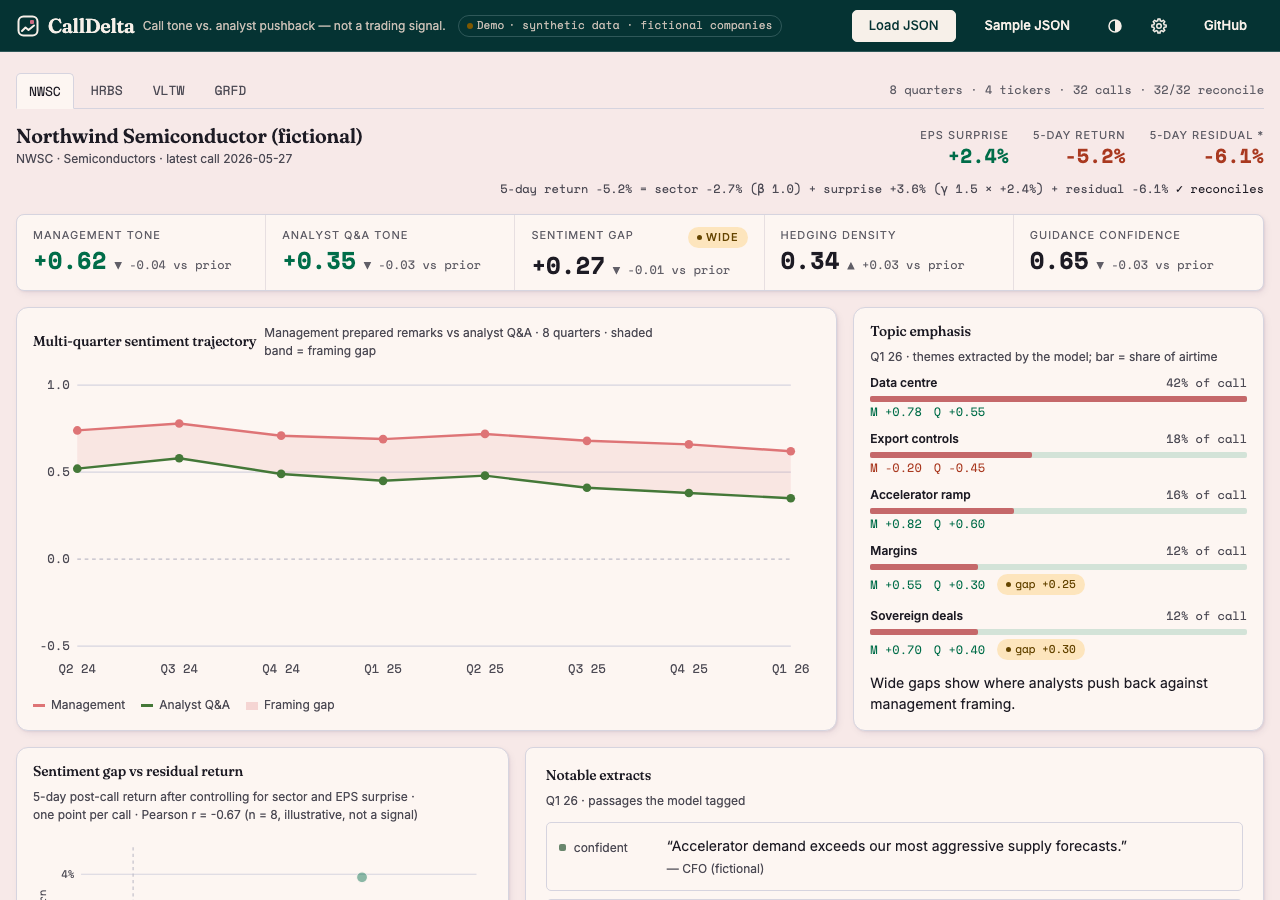
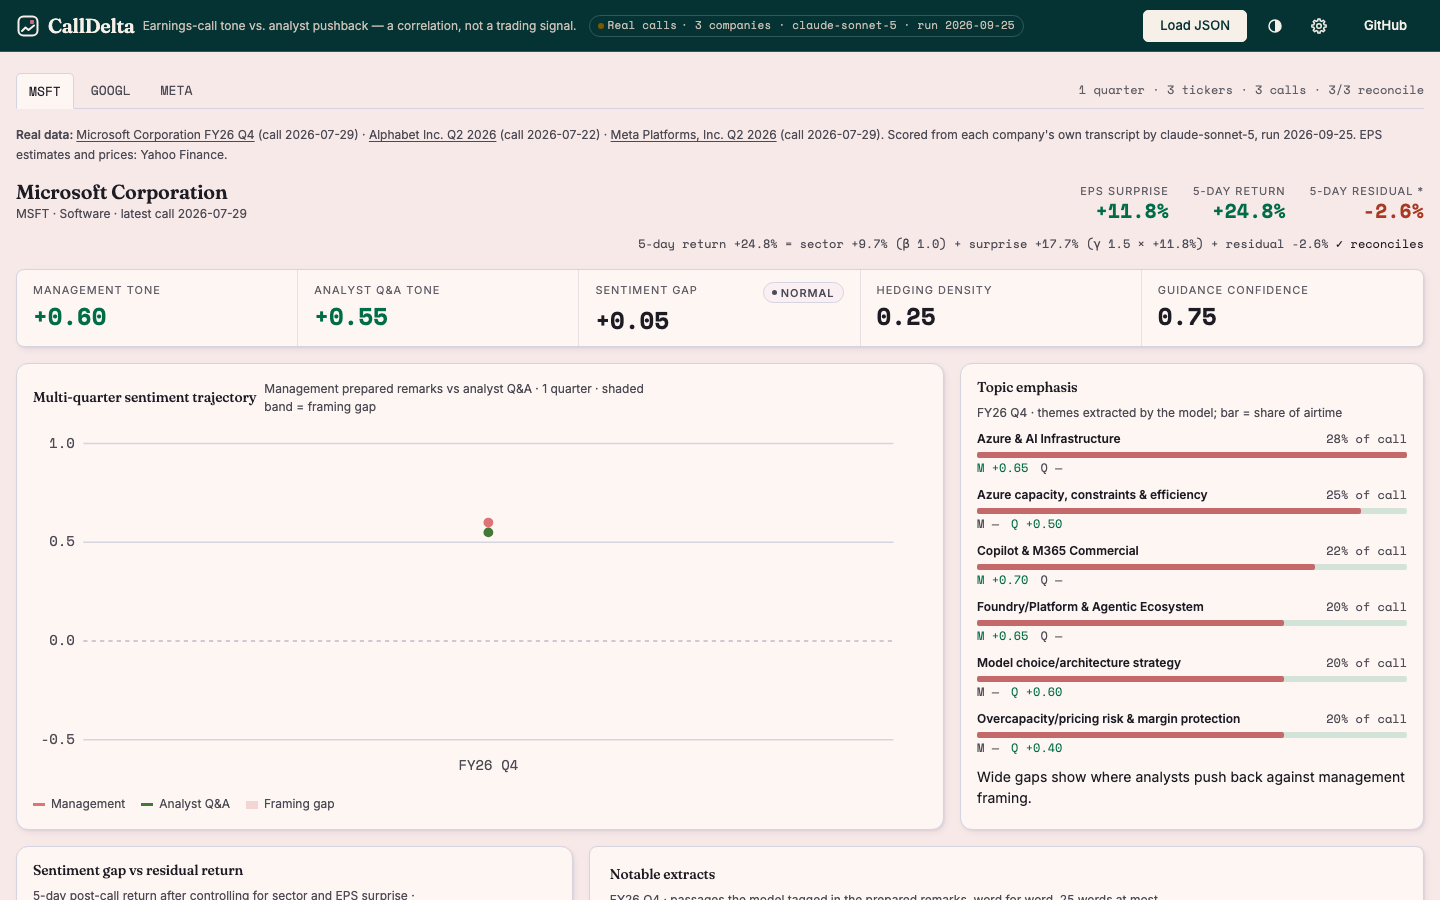
Show a dash for a topic one section did not discuss; single-quarter polish
A topic that only the prepared remarks (or only the Q&A) covered used to be
exported with a 0.00 tone for the other side, which the page drew as a
neutral score and a "gap" tag. The export now flags the missing side
(mgmt_missing / qa_missing) and the page shows "M —" or "Q —" with no gap tag.

With one quarter per company the strip no longer shows "vs prior" deltas and
the counts say "1 quarter". Calendar-quarter labels read "Q2 2026". The README
screenshot now shows the real data.

diff --git a/docs/app.js b/docs/app.js
@@ -145,11 +145,11 @@ function renderPage() {
   const c = data[S.ticker], qs = c.quarters, cur = qs[qs.length - 1], prev = qs[qs.length - 2] || cur;
   const calls = tickers.reduce((a, t) => a + data[t].quarters.length, 0);
   $('#pill-short').textContent = S.custom ? 'Your file' : 'Real calls';
-  $('#pill-long').textContent = S.custom ? ' · loaded in this tab' : ` · ${META.calls.length} calls · ${META.model} · run ${META.run_date}`;
+  $('#pill-long').textContent = S.custom ? ' · loaded in this tab' : ` · ${META.calls.length} companies · ${META.model} · run ${META.run_date}`;
   $('#reset').hidden = !S.custom;
   // the address always names the company on screen, so a reload or a shared link opens the same one
   if (fromHash() !== S.ticker) history.replaceState(null, '', '#' + encodeURIComponent(S.ticker));
-  main.append(h('div', { class: 'ticker-tabs', role: 'tablist', 'aria-label': 'Companies' }, tickers.map(t => h('button', { role: 'tab', id: 'tab-' + t, 'aria-controls': 'ticker-panel', 'aria-selected': t === S.ticker ? 'true' : 'false', onclick: () => { if (t === S.ticker) return; S.ticker = t; history.pushState(null, '', '#' + encodeURIComponent(t)); render(); } }, t)), h('span', { class: 'meta' }, `${qs.length} quarters · ${tickers.length} tickers · ${calls} calls · `, recSummary(data, tickers, calls))));
+  main.append(h('div', { class: 'ticker-tabs', role: 'tablist', 'aria-label': 'Companies' }, tickers.map(t => h('button', { role: 'tab', id: 'tab-' + t, 'aria-controls': 'ticker-panel', 'aria-selected': t === S.ticker ? 'true' : 'false', onclick: () => { if (t === S.ticker) return; S.ticker = t; history.pushState(null, '', '#' + encodeURIComponent(t)); render(); } }, t)), h('span', { class: 'meta' }, `${qs.length} ${qs.length === 1 ? 'quarter' : 'quarters'} · ${tickers.length} tickers · ${calls} calls · `, recSummary(data, tickers, calls))));
   if (!S.custom) main.append(provenance());
   const panel = h('div', { id: 'ticker-panel', role: 'tabpanel', 'aria-labelledby': 'tab-' + S.ticker }); main.append(panel);
   const gap = cur.mgmt - cur.qa, gapPrev = prev.mgmt - prev.qa, rec = reconcile(c, cur);
@@ -162,7 +162,7 @@ function renderPage() {
     typeof c.note === 'string' && c.note ? h('p', { class: 'company-note', role: 'note' }, c.note) : null));
   // colour may repeat what a sign already says, never stand alone for good or bad: the strip's
   // unsigned figures and these deltas carry no colour classes
-  const delta = v => qs.length < 2 ? h('small', {}, 'one quarter') : h('small', {}, `${v > 0 ? '▲' : v < 0 ? '▼' : '·'} ${tone(v)} vs prior`);
+  const delta = v => qs.length < 2 ? null : h('small', {}, `${v > 0 ? '▲' : v < 0 ? '▼' : '·'} ${tone(v)} vs prior`);   // one quarter: nothing to compare with
   panel.append(h('div', { class: 'strip', role: 'group', 'aria-label': 'Current quarter signals' },
     h('div', {}, h('div', { class: 'lbl' }, 'Management tone'), h('div', { class: 'val' }, h('b', { class: cls(cur.mgmt) }, tone(cur.mgmt)), delta(cur.mgmt - prev.mgmt))),
     h('div', {}, h('div', { class: 'lbl' }, 'Analyst Q&A tone'), h('div', { class: 'val' }, h('b', { class: cls(cur.qa) }, tone(cur.qa)), delta(cur.qa - prev.qa))),
@@ -171,8 +171,8 @@ function renderPage() {
     h('div', {}, h('div', { class: 'lbl' }, 'Guidance confidence'), h('div', { class: 'val' }, h('b', {}, cur.guidance.toFixed(2)), delta(cur.guidance - prev.guidance)))));
   const maxW = Math.max(0.001, ...c.topics.map(t => t.weight));
   panel.append(h('div', { class: 'panels' },
-    h('div', { class: 'chart' }, h('div', { class: 'ch-head' }, h('h2', {}, 'Multi-quarter sentiment trajectory'), h('p', {}, `Management prepared remarks vs analyst Q&A · ${qs.length} quarters · shaded band = framing gap`)), trajectory(qs), h('div', { class: 'legend' }, h('span', {}, h('i', { style: 'background:var(--viz-1)' }), 'Management'), h('span', {}, h('i', { style: 'background:var(--viz-2)' }), 'Analyst Q&A'), h('span', {}, h('i', { style: 'background:var(--viz-1);opacity:.25;height:8px' }), 'Framing gap'))),
-    h('div', { class: 'chart' }, h('div', { class: 'ch-head' }, h('h2', {}, 'Topic emphasis'), h('p', {}, `${cur.label} · themes extracted by the model; bar = share of airtime`)), h('div', { class: 'topics' }, c.topics.length ? c.topics.map(t => { const g = t.mgmt - t.qa; return h('div', { class: 'topic' }, h('div', { class: 'head' }, h('b', {}, t.name), h('span', { class: 'mono muted' }, `${(t.weight * 100).toFixed(0)}% of call`)), h('div', { class: 'bar' }, h('i', { style: `width:${Math.min(100, t.weight / maxW * 100)}%` })), h('div', { class: 'tones' }, h('span', { class: cls(t.mgmt) }, 'M ' + tone(t.mgmt)), h('span', { class: cls(t.qa) }, 'Q ' + tone(t.qa)), Math.abs(g) > 0.25 ? h('span', { class: 'tag tag-warning' }, 'gap ' + tone(g)) : null)); }) : h('p', { class: 'muted' }, 'No topics in this file.')), h('p', { class: 'hint', style: 'margin-top:12px' }, 'Wide gaps show where analysts push back against management framing.'))));
+    h('div', { class: 'chart' }, h('div', { class: 'ch-head' }, h('h2', {}, 'Multi-quarter sentiment trajectory'), h('p', {}, `Management prepared remarks vs analyst Q&A · ${qs.length} ${qs.length === 1 ? 'quarter' : 'quarters'} · shaded band = framing gap`)), trajectory(qs), h('div', { class: 'legend' }, h('span', {}, h('i', { style: 'background:var(--viz-1)' }), 'Management'), h('span', {}, h('i', { style: 'background:var(--viz-2)' }), 'Analyst Q&A'), h('span', {}, h('i', { style: 'background:var(--viz-1);opacity:.25;height:8px' }), 'Framing gap'))),
+    h('div', { class: 'chart' }, h('div', { class: 'ch-head' }, h('h2', {}, 'Topic emphasis'), h('p', {}, `${cur.label} · themes extracted by the model; bar = share of airtime`)), h('div', { class: 'topics' }, c.topics.length ? c.topics.map(t => { const g = t.mgmt - t.qa, one = t.mgmt_missing === true || t.qa_missing === true; return h('div', { class: 'topic' }, h('div', { class: 'head' }, h('b', {}, t.name), h('span', { class: 'mono muted' }, `${(t.weight * 100).toFixed(0)}% of call`)), h('div', { class: 'bar' }, h('i', { style: `width:${Math.min(100, t.weight / maxW * 100)}%` })), h('div', { class: 'tones' }, t.mgmt_missing === true ? h('span', { class: 'muted', title: 'not a topic of the prepared remarks' }, 'M —') : h('span', { class: cls(t.mgmt) }, 'M ' + tone(t.mgmt)), t.qa_missing === true ? h('span', { class: 'muted', title: 'not a topic of the Q&A' }, 'Q —') : h('span', { class: cls(t.qa) }, 'Q ' + tone(t.qa)), !one && Math.abs(g) > 0.25 ? h('span', { class: 'tag tag-warning' }, 'gap ' + tone(g)) : null)); }) : h('p', { class: 'muted' }, 'No topics in this file.')), h('p', { class: 'hint', style: 'margin-top:12px' }, 'Wide gaps show where analysts push back against management framing.'))));
   const r = pearson(qs.map(q => q.mgmt - q.qa), qs.map(q => q.residual_5d));
   panel.append(h('div', { class: 'panels-2' },
     h('div', { class: 'chart' }, h('div', { class: 'ch-head' }, h('h2', {}, 'Sentiment gap vs residual return'), h('p', {}, `5-day post-call return after controlling for sector and EPS surprise · one point per call · Pearson r = ${r === null ? 'n/a' : r.toFixed(2)} (n = ${qs.length}, illustrative, not a signal)`)), scatter(qs), h('p', { class: 'hint', style: 'margin-top:8px' }, 'Quadrant of interest: wide gap and negative residual — management rosy, market unconvinced.')),

diff --git a/docs/real-data.js b/docs/real-data.js
@@ -15,7 +15,7 @@ window.CALLDELTA_REAL_META = {
   {
    "ticker": "GOOGL",
    "company": "Alphabet Inc.",
-   "label": "Q2 26",
+   "label": "Q2 2026",
    "call_date": "2026-07-22",
    "source_page": "https://abc.xyz/investor/events/event-details/2026/2026-Q2-Earnings-Call-2026-GgTAq7Is0z/default.aspx",
    "source_url": "https://s206.q4cdn.com/479360582/files/doc_events/2026/Jul/22/2026_Q2_Earnings_Transcript.pdf"
@@ -23,7 +23,7 @@ window.CALLDELTA_REAL_META = {
   {
    "ticker": "META",
    "company": "Meta Platforms, Inc.",
-   "label": "Q2 26",
+   "label": "Q2 2026",
    "call_date": "2026-07-29",
    "source_page": "https://investor.atmeta.com/investor-events/default.aspx",
    "source_url": "https://s21.q4cdn.com/399680738/files/doc_financials/2026/q2/META-Q2-2026-Earnings-Call-Transcript.pdf"
@@ -57,37 +57,43 @@ window.CALLDELTA_REAL = {
     "name": "Azure & AI Infrastructure",
     "weight": 0.28,
     "mgmt": 0.65,
-    "qa": 0.0
+    "qa": 0.0,
+    "qa_missing": true
    },
    {
     "name": "Azure capacity, constraints & efficiency",
     "weight": 0.25,
     "mgmt": 0.0,
-    "qa": 0.5
+    "qa": 0.5,
+    "mgmt_missing": true
    },
    {
     "name": "Copilot & M365 Commercial",
     "weight": 0.22,
     "mgmt": 0.7,
-    "qa": 0.0
+    "qa": 0.0,
+    "qa_missing": true
    },
    {
     "name": "Foundry/Platform & Agentic Ecosystem",
     "weight": 0.2,
     "mgmt": 0.65,
-    "qa": 0.0
+    "qa": 0.0,
+    "qa_missing": true
    },
    {
     "name": "Model choice/architecture strategy",
     "weight": 0.2,
     "mgmt": 0.0,
-    "qa": 0.6
+    "qa": 0.6,
+    "mgmt_missing": true
    },
    {
     "name": "Overcapacity/pricing risk & margin protection",
     "weight": 0.2,
     "mgmt": 0.0,
-    "qa": 0.4
+    "qa": 0.4,
+    "mgmt_missing": true
    }
   ],
   "extracts": [
@@ -111,7 +117,7 @@ window.CALLDELTA_REAL = {
   "gamma": 1.5,
   "quarters": [
    {
-    "label": "Q2 26",
+    "label": "Q2 2026",
     "date": "2026-07-22",
     "mgmt": 0.75,
     "qa": 0.35,
@@ -128,37 +134,43 @@ window.CALLDELTA_REAL = {
     "name": "Google Cloud growth & backlog",
     "weight": 0.28,
     "mgmt": 0.85,
-    "qa": 0.0
+    "qa": 0.0,
+    "qa_missing": true
    },
    {
     "name": "AI Model Frontier Competition (Gemini)",
     "weight": 0.28,
     "mgmt": 0.0,
-    "qa": 0.5
+    "qa": 0.5,
+    "mgmt_missing": true
    },
    {
     "name": "CapEx & Capacity Constraints/TPU Allocation",
     "weight": 0.27,
     "mgmt": 0.0,
-    "qa": 0.15
+    "qa": 0.15,
+    "mgmt_missing": true
    },
    {
     "name": "AI models & infrastructure (Gemini, TPUs, CapEx)",
     "weight": 0.25,
     "mgmt": 0.7,
-    "qa": 0.0
+    "qa": 0.0,
+    "qa_missing": true
    },
    {
     "name": "Search & Ads monetization (AI Overviews/AI Mode)",
     "weight": 0.22,
     "mgmt": 0.7,
-    "qa": 0.0
+    "qa": 0.0,
+    "qa_missing": true
    },
    {
     "name": "Search & YouTube Monetization",
     "weight": 0.18,
     "mgmt": 0.0,
-    "qa": 0.6
+    "qa": 0.6,
+    "mgmt_missing": true
    }
   ],
   "extracts": [
@@ -183,7 +195,7 @@ window.CALLDELTA_REAL = {
   "gamma": 1.5,
   "quarters": [
    {
-    "label": "Q2 26",
+    "label": "Q2 2026",
     "date": "2026-07-29",
     "mgmt": 0.55,
     "qa": 0.45,
@@ -200,37 +212,43 @@ window.CALLDELTA_REAL = {
     "name": "AI-driven core business (recommendations & ads systems)",
     "weight": 0.3,
     "mgmt": 0.75,
-    "qa": 0.0
+    "qa": 0.0,
+    "qa_missing": true
    },
    {
     "name": "AI Lab Performance, Models & Open Source Strategy",
     "weight": 0.25,
     "mgmt": 0.0,
-    "qa": 0.55
+    "qa": 0.55,
+    "mgmt_missing": true
    },
    {
     "name": "Infrastructure & capex strategy",
     "weight": 0.2,
     "mgmt": 0.25,
-    "qa": 0.0
+    "qa": 0.0,
+    "qa_missing": true
    },
    {
     "name": "New products, agents & subscriptions (Meta One, business agents, glasses)",
     "weight": 0.2,
     "mgmt": 0.7,
-    "qa": 0.0
+    "qa": 0.0,
+    "qa_missing": true
    },
    {
     "name": "CapEx & Capital Planning (2027 outlook)",
     "weight": 0.2,
     "mgmt": 0.0,
-    "qa": 0.2
+    "qa": 0.2,
+    "mgmt_missing": true
    },
    {
     "name": "Financial results & guidance",
     "weight": 0.15,
     "mgmt": 0.35,
-    "qa": 0.0
+    "qa": 0.0,
+    "qa_missing": true
    }
   ],
   "extracts": [

diff --git a/tests/test_export.py b/tests/test_export.py
@@ -17,8 +17,11 @@ def test_combine_topics_matches_by_substring_and_surfaces_qa_only_topics():
     out = _combine_topics(prepared, qa)
     by = {t["name"]: t for t in out}
     assert by["Data Center"]["qa"] == 0.2 and by["Data Center"]["weight"] == 0.45
-    assert by["Margins"]["qa"] == 0.0, "unmatched prepared topic keeps a neutral Q&A tone"
-    assert by["China"]["mgmt"] == 0.0 and by["China"]["qa"] == -0.5, "analysts pushed on something management did not raise"
+    assert by["Margins"]["qa"] == 0.0 and by["Margins"]["qa_missing"] is True, \
+        "an unmatched prepared topic carries a placeholder Q&A tone, flagged as missing"
+    assert by["China"]["mgmt"] == 0.0 and by["China"]["mgmt_missing"] is True and by["China"]["qa"] == -0.5, \
+        "analysts pushed on something management did not raise"
+    assert "qa_missing" not in by["Data Center"] and "mgmt_missing" not in by["Data Center"]
     assert [t["weight"] for t in out] == sorted([t["weight"] for t in out], reverse=True)
 
 

diff --git a/src/export_dashboard.py b/src/export_dashboard.py
@@ -79,12 +79,13 @@ def _combine_topics(prepared_topics: list[dict], qa_topics: list[dict]) -> list[
                 "qa": best[1]["tone"],
             })
         else:
-            out.append({"name": name, "weight": pt["weight"], "mgmt": pt["tone"], "qa": 0.0})
+            # "qa_missing": the 0.0 is a placeholder (analysts did not discuss it), not a neutral tone
+            out.append({"name": name, "weight": pt["weight"], "mgmt": pt["tone"], "qa": 0.0, "qa_missing": True})
 
     # surface Q&A-only topics (analyst pushed on something mgmt didn't emphasize — interesting!)
     for i, qt in enumerate(qa_topics):
         if i not in qa_used:
-            out.append({"name": qt["name"], "weight": qt["weight"], "mgmt": 0.0, "qa": qt["tone"]})
+            out.append({"name": qt["name"], "weight": qt["weight"], "mgmt": 0.0, "qa": qt["tone"], "mgmt_missing": True})
 
     # Sort by total airtime (weight)
     out.sort(key=lambda t: t["weight"], reverse=True)
